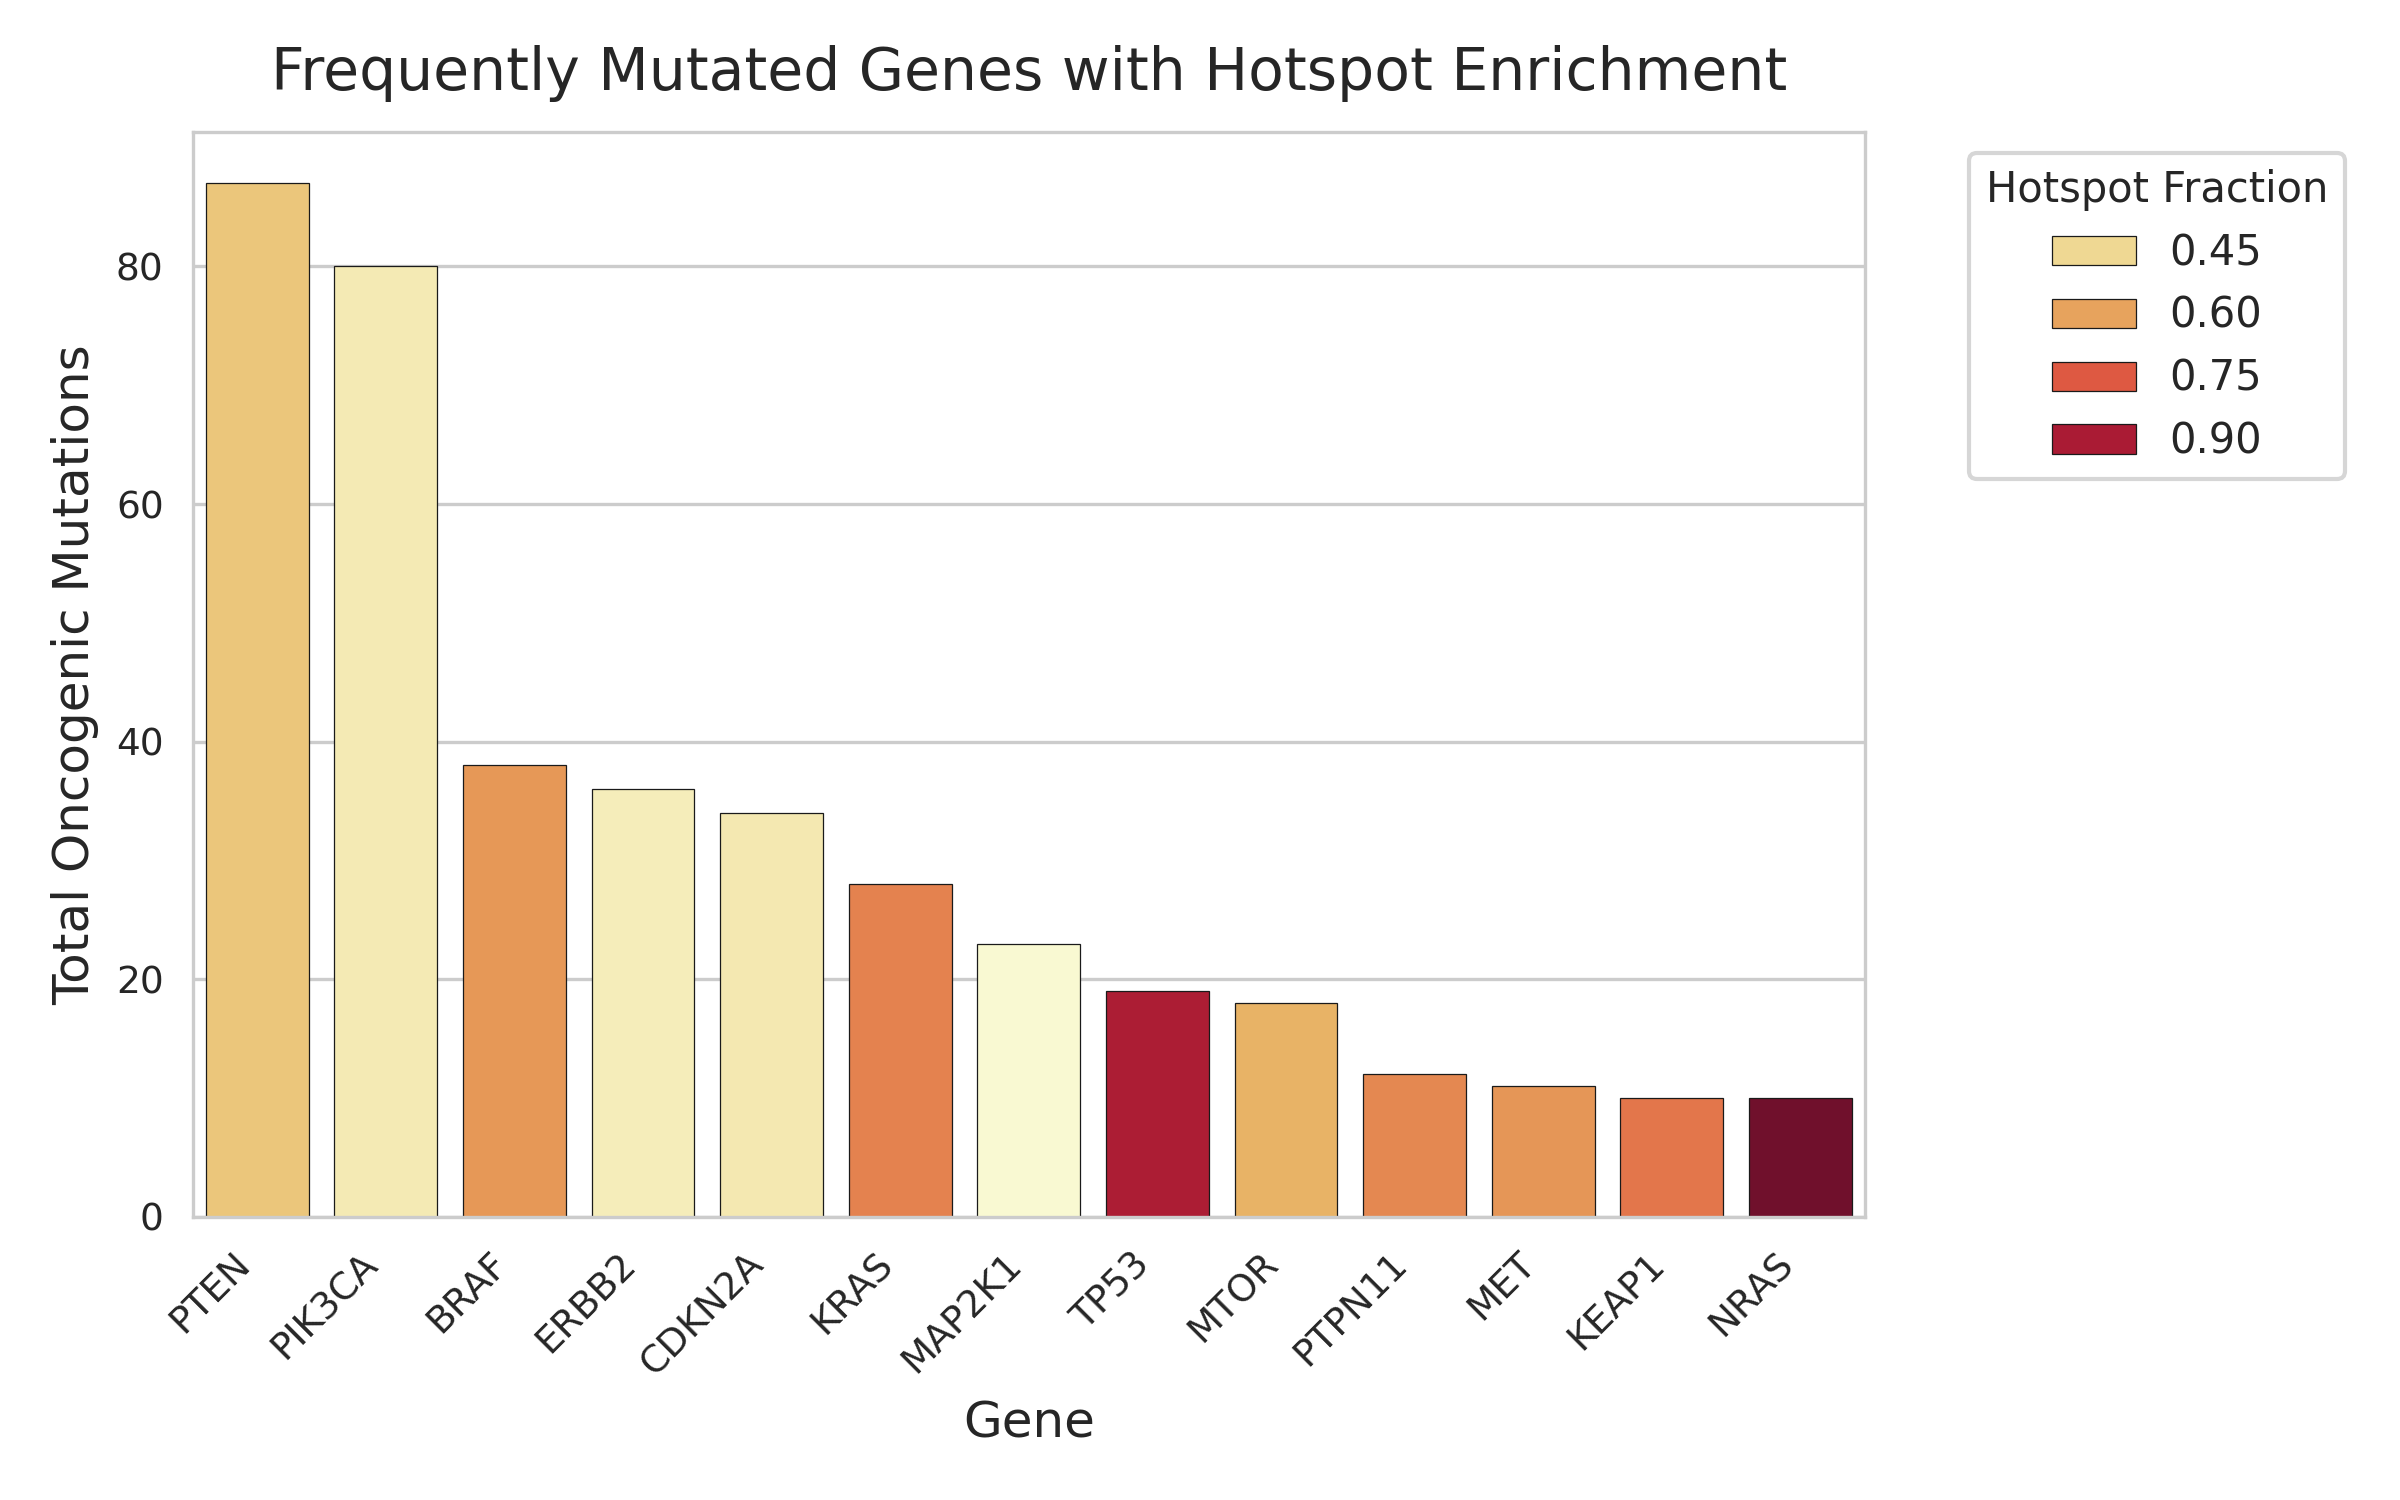
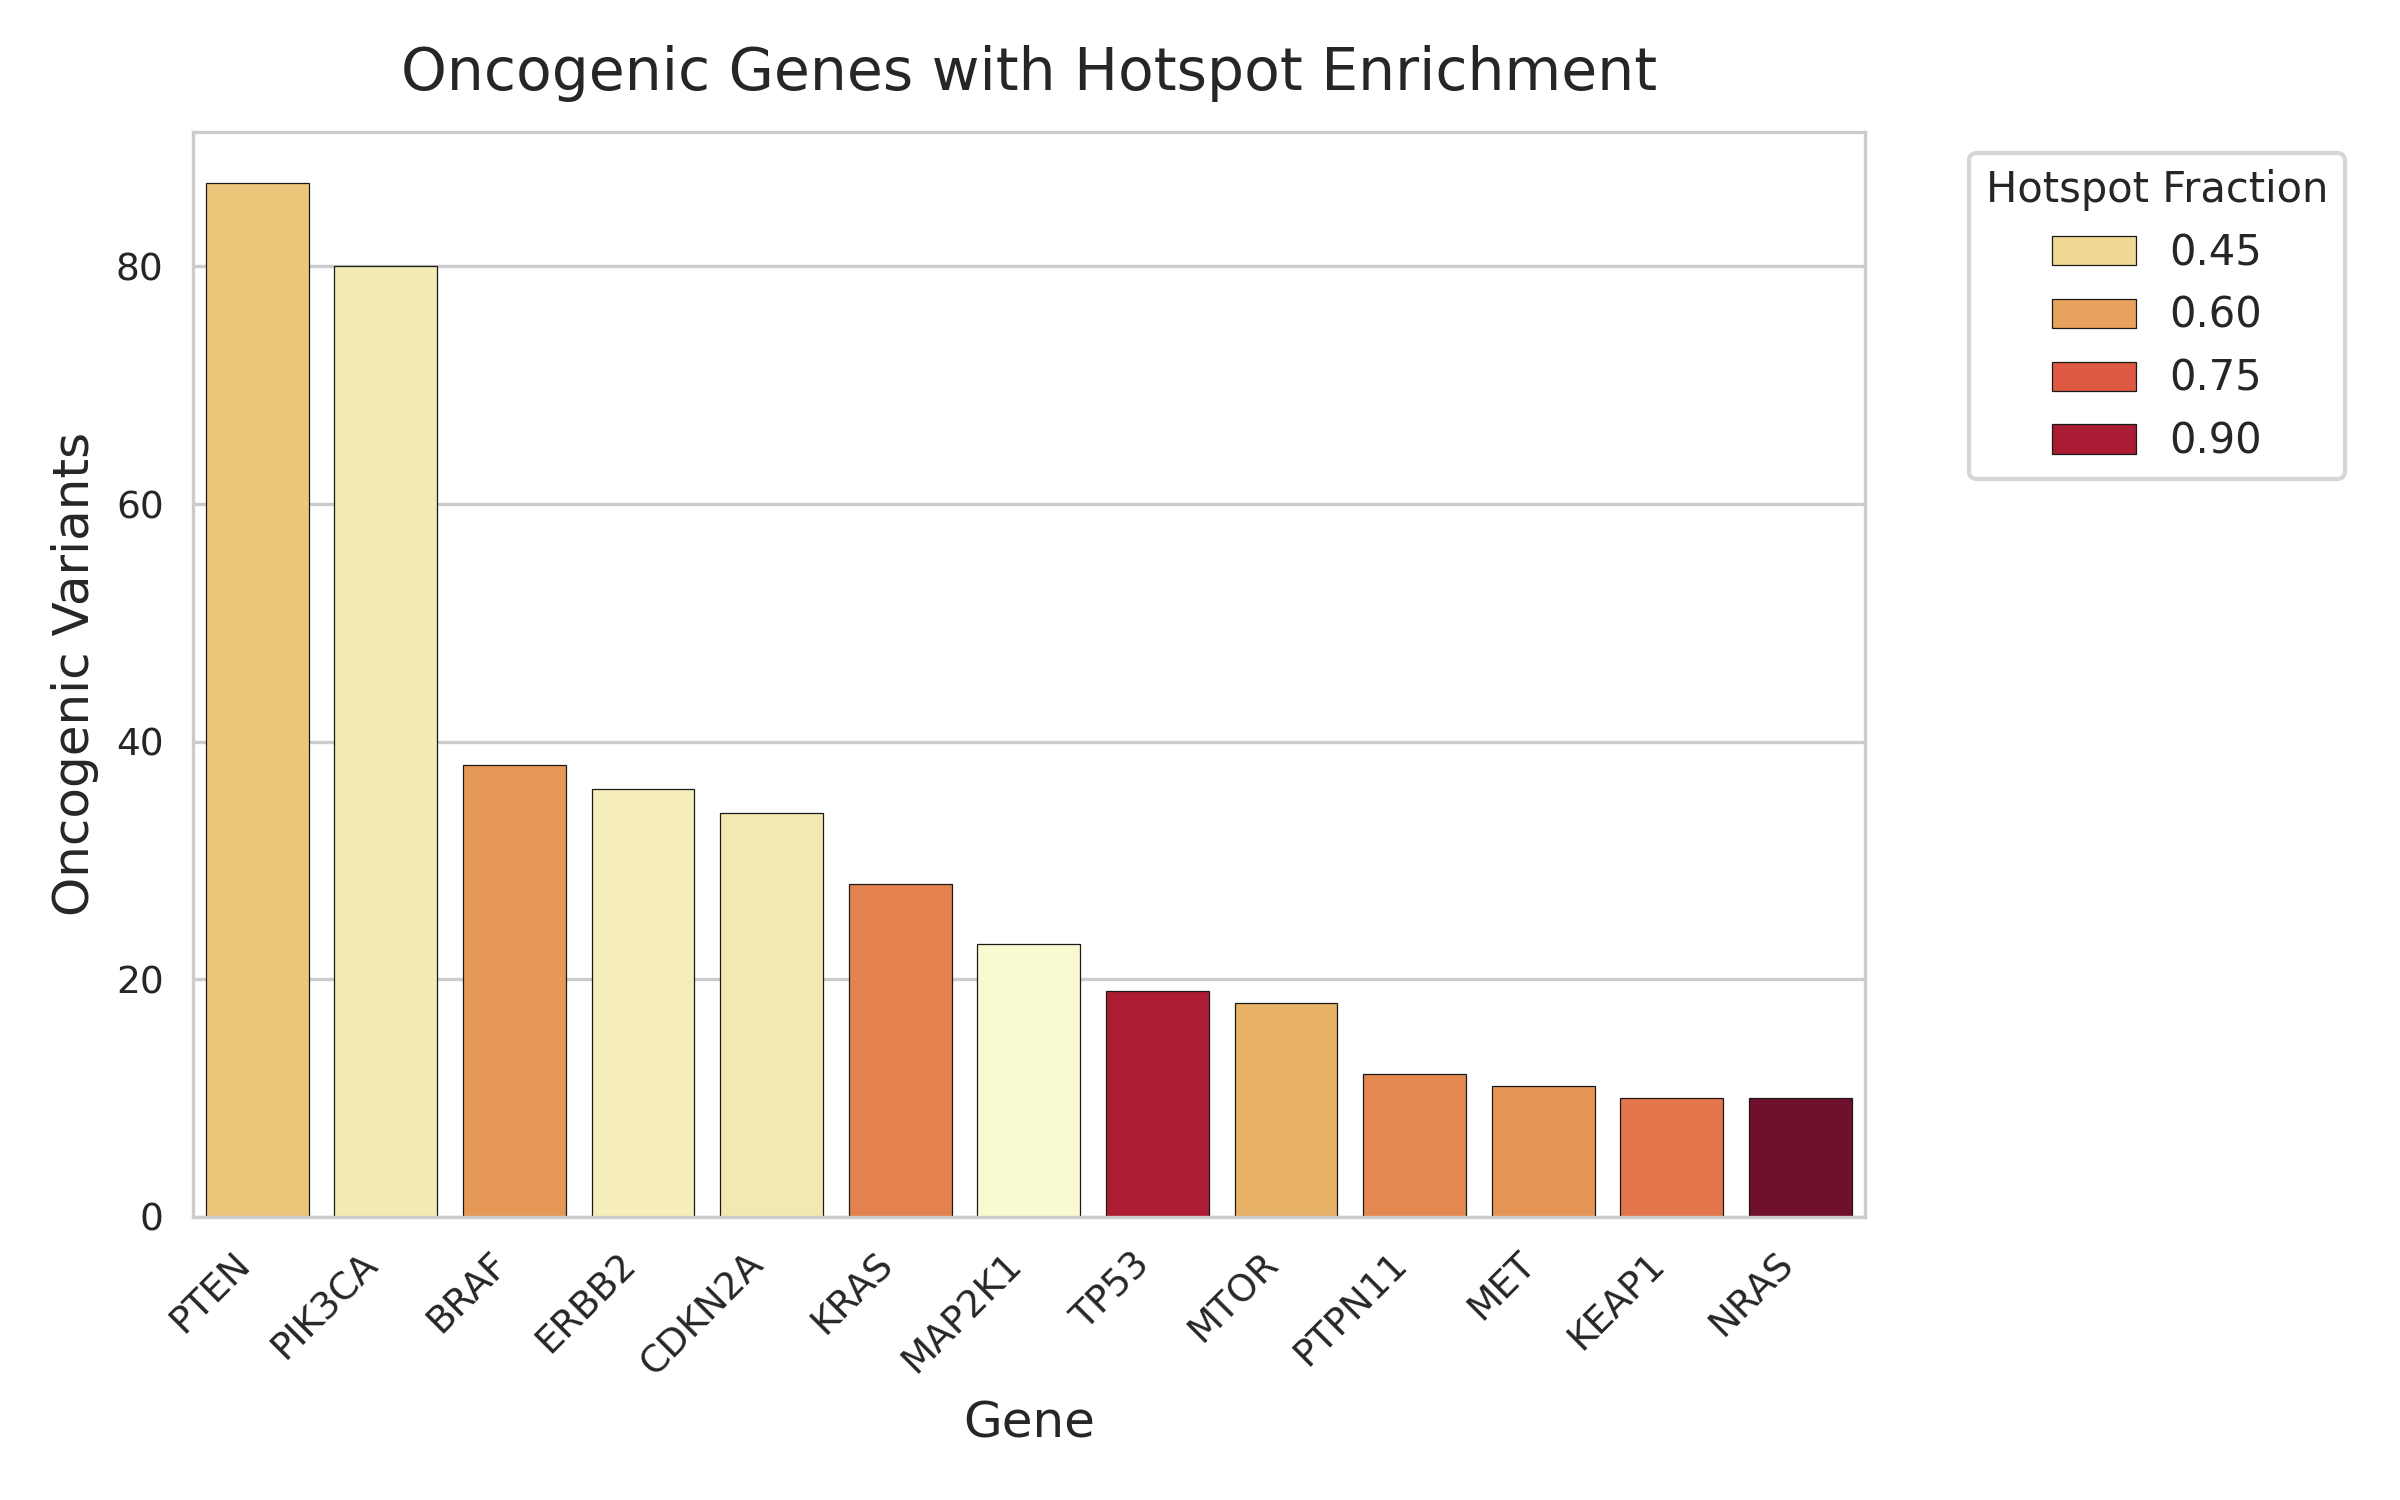
vip

diff --git a/scripts/EDA/cancerhotspots.py b/scripts/EDA/cancerhotspots.py
@@ -353,9 +353,9 @@ sns.barplot(
   linewidth=0.3
 )
 
-plt.title("Frequently Mutated Genes with Hotspot Enrichment", fontsize=14, pad=10)
+plt.title("Oncogenic Genes with Hotspot Enrichment", fontsize=14, pad=10)
 plt.xlabel("Gene", fontsize=12)
-plt.ylabel("Total Oncogenic Mutations", fontsize=12)
+plt.ylabel("Oncogenic Variants", fontsize=12)
 plt.xticks(rotation=45, ha="right", fontsize=9)
 plt.yticks(fontsize=9)
 plt.legend(title="Hotspot Fraction", bbox_to_anchor=(1.05, 1), loc='upper left')

diff --git a/scripts/EDA/tsg_og.py b/scripts/EDA/tsg_og.py
@@ -228,7 +228,7 @@ gene_counts.plot(kind="bar", color="#c4314a", edgecolor="0.1", linewidth=0.3)
 
 plt.title("Genes with Oncogenic Null Variants in TSGs", fontsize=14)
 plt.ylabel("Number of Variants", fontsize=12)
-plt.xlabel("Gene Symbol", fontsize=12)
+plt.xlabel("Gene", fontsize=12)
 plt.xticks(rotation=45)
 
 plt.tight_layout()
